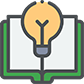
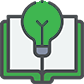
Color block images and changing of naming in scss

Changed region(s): [[0.2619, 0.0, 0.7381, 0.5476]]

diff --git a/main.css b/main.css
@@ -122,13 +122,13 @@
 }
 
 @media (max-width: 1200px) {
-  .outerContainer #roundRect {
+  .contLvl1 #roundRect {
     border-radius: 0px;
   }
   body {
     margin: 0;
   }
-  body .outerContainer {
+  body .contLvl1 {
     width: 100vw;
   }
 }/*# sourceMappingURL=main.css.map */

diff --git a/main.scss b/main.scss
@@ -131,14 +131,14 @@
   }
 }
 @media (max-width: 1200px) {
-  .outerContainer {
+  .contLvl1 {
     #roundRect {
       border-radius: 0px;
     }
   }
   body {
     margin: 0;
-    .outerContainer {
+    .contLvl1 {
       width: 100vw;
     }
   }
